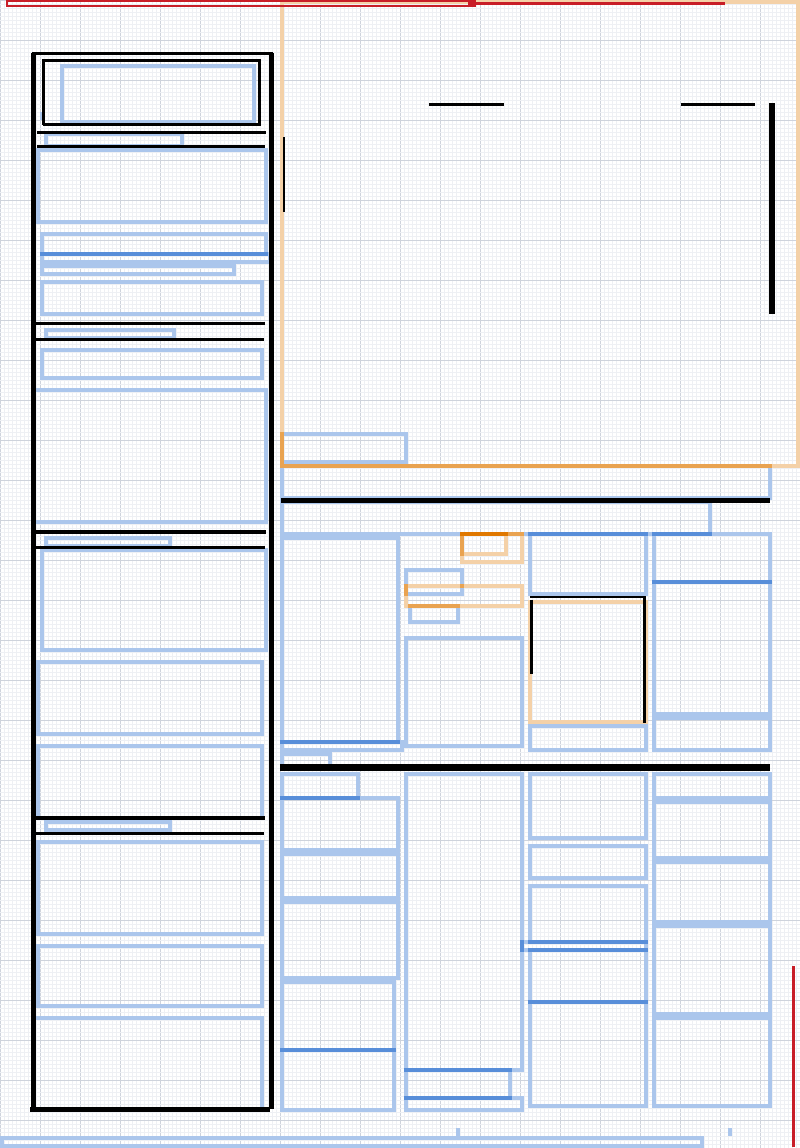
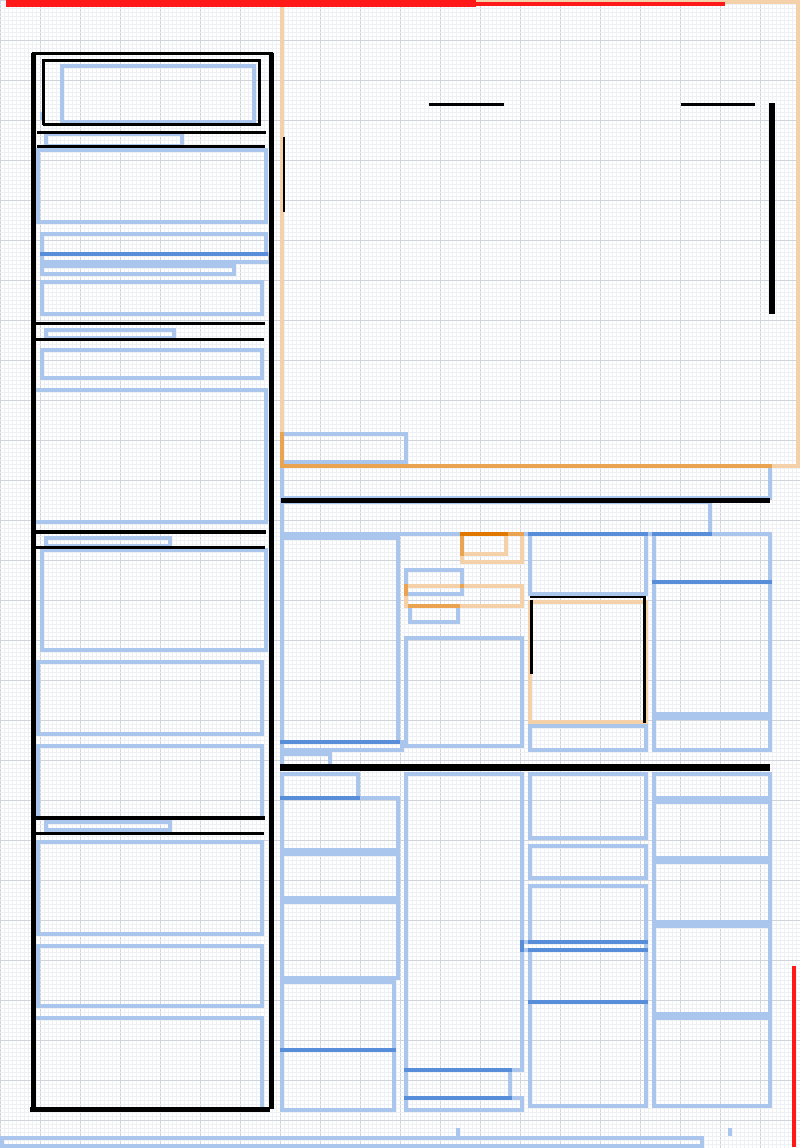
block_grid: draw removed slivers FILLED in bright red, not outlined
They were outlined at width 2 in (200,30,40). A sliver is by definition
thin, so at preview scale its outline collapsed to a hairline that read as
a smudge -- the removals were the thing the view exists to let you check,
and they were the hardest thing on it to see.

Now filled in (255,25,25) with a 3px floor across the short axis, so every
removal reads as a solid bar whatever its thickness.

Claude-Session: https://claude.ai/code/session_01FiL5RaDmQAWNR3gnQRCAgK

Changed region(s): [[0.0, 0.0, 0.9062, 0.0305], [0.9688, 0.8537, 1.0, 1.0]]

diff --git a/transcribe/scaled/experiments/block_grid.py b/transcribe/scaled/experiments/block_grid.py
@@ -39,7 +39,8 @@ OUT_DIR = os.path.join(_sup.REPO_ROOT, "preview", "scaled", "grids")
 BLOCK = (10, 90, 200)        # ocr_carea perimeter
 PHOTO = (224, 120, 0)        # ocr_photo perimeter
 RULE = (0, 0, 0)             # separator kept
-SHADOW = (200, 30, 40)       # separator removed as a scan shadow
+SHADOW = (255, 25, 25)       # removed as a sliver -- drawn FILLED, see below
+SHADOW_MIN_PX = 3            # a sliver is thinner than a pixel at this scale
 STEP_DARK = 0.34             # each perimeter through a cell adds this much
 
 
@@ -236,13 +237,19 @@ def render(counts, owner, kept, shadows, n_cols, n_rows, cw, chh,
                      max(i["R"] / cw * cell, i["L"] / cw * cell + 1),
                      max(i["B"] / chh * cell, i["T"] / chh * cell + 1)],
                     fill=RULE)
-    # Every removed shadow, whatever its type, outlined so the FIRST PASS
-    # can be judged rather than trusted.
+    # Every removed sliver, whatever its type, drawn FILLED so the FIRST
+    # PASS can be judged rather than trusted. Outlining them was too faint:
+    # a sliver is by definition thin, so at this scale its outline collapsed
+    # to a 2px hairline that read as a smudge. Filled, and floored at
+    # SHADOW_MIN_PX across, each removal is unmissable.
     for i in shadows:
-        d.rectangle([i["L"] / cw * cell, i["T"] / chh * cell,
-                     max(i["R"] / cw * cell, i["L"] / cw * cell + 1),
-                     max(i["B"] / chh * cell, i["T"] / chh * cell + 1)],
-                    outline=SHADOW, width=2)
+        x0, y0 = i["L"] / cw * cell, i["T"] / chh * cell
+        x1, y1 = i["R"] / cw * cell, i["B"] / chh * cell
+        if x1 - x0 < SHADOW_MIN_PX:
+            x1 = x0 + SHADOW_MIN_PX
+        if y1 - y0 < SHADOW_MIN_PX:
+            y1 = y0 + SHADOW_MIN_PX
+        d.rectangle([x0, y0, x1, y1], fill=SHADOW)
 
     os.makedirs(os.path.dirname(out_path), exist_ok=True)
     img.save(out_path)
